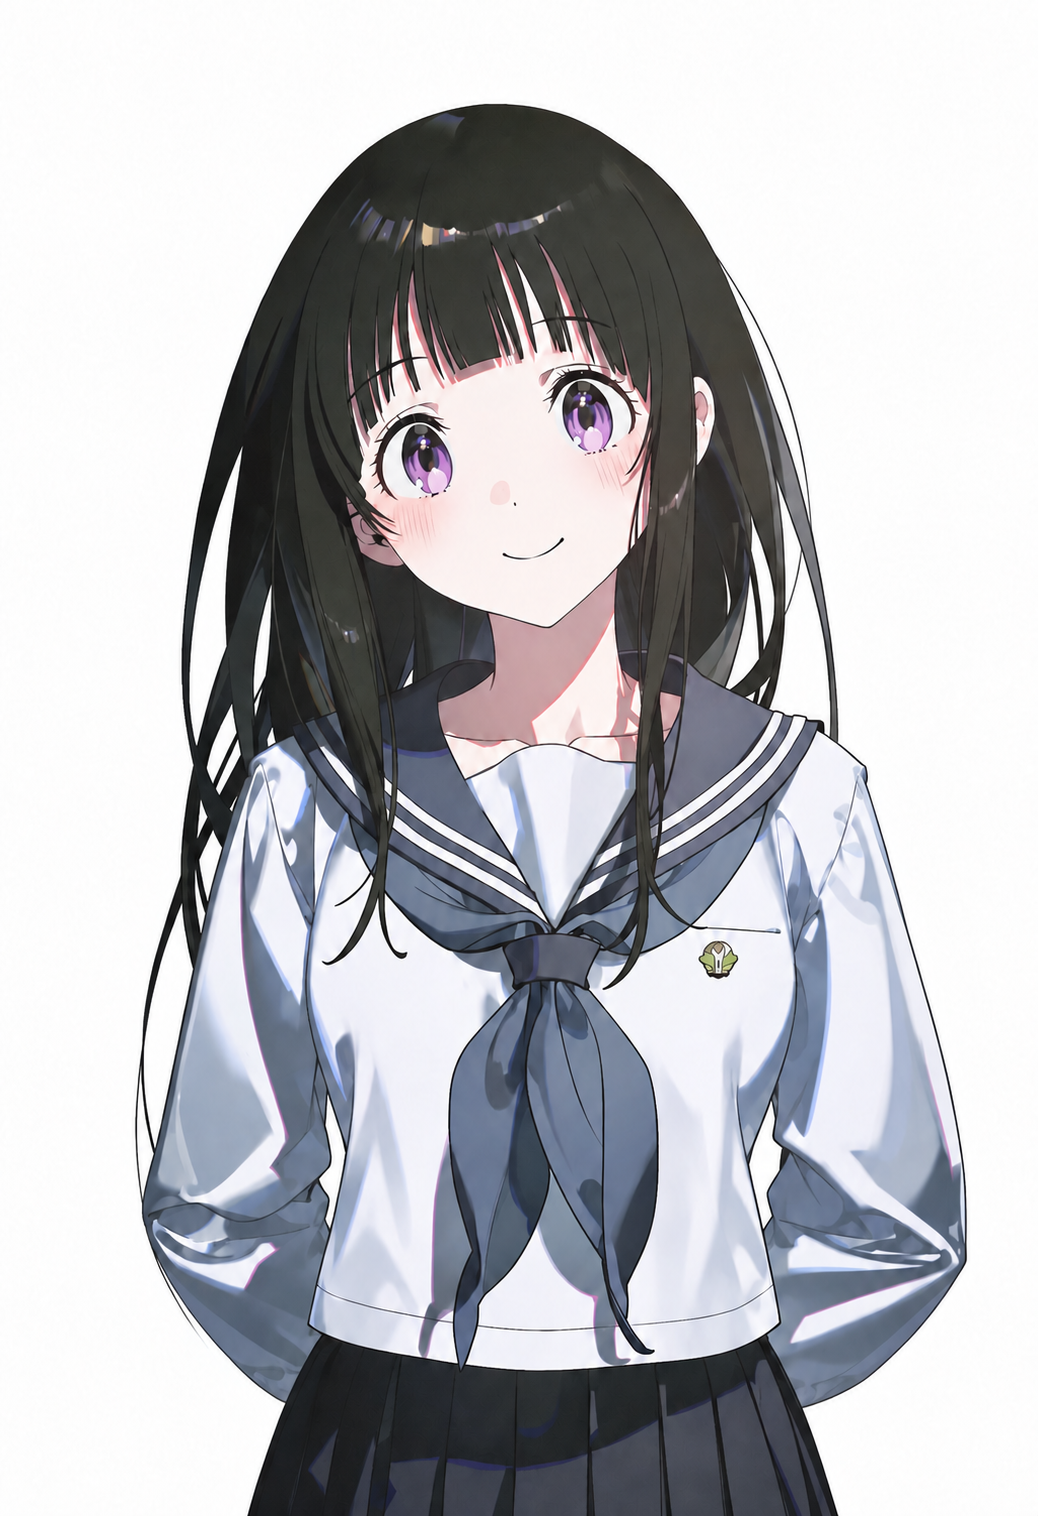
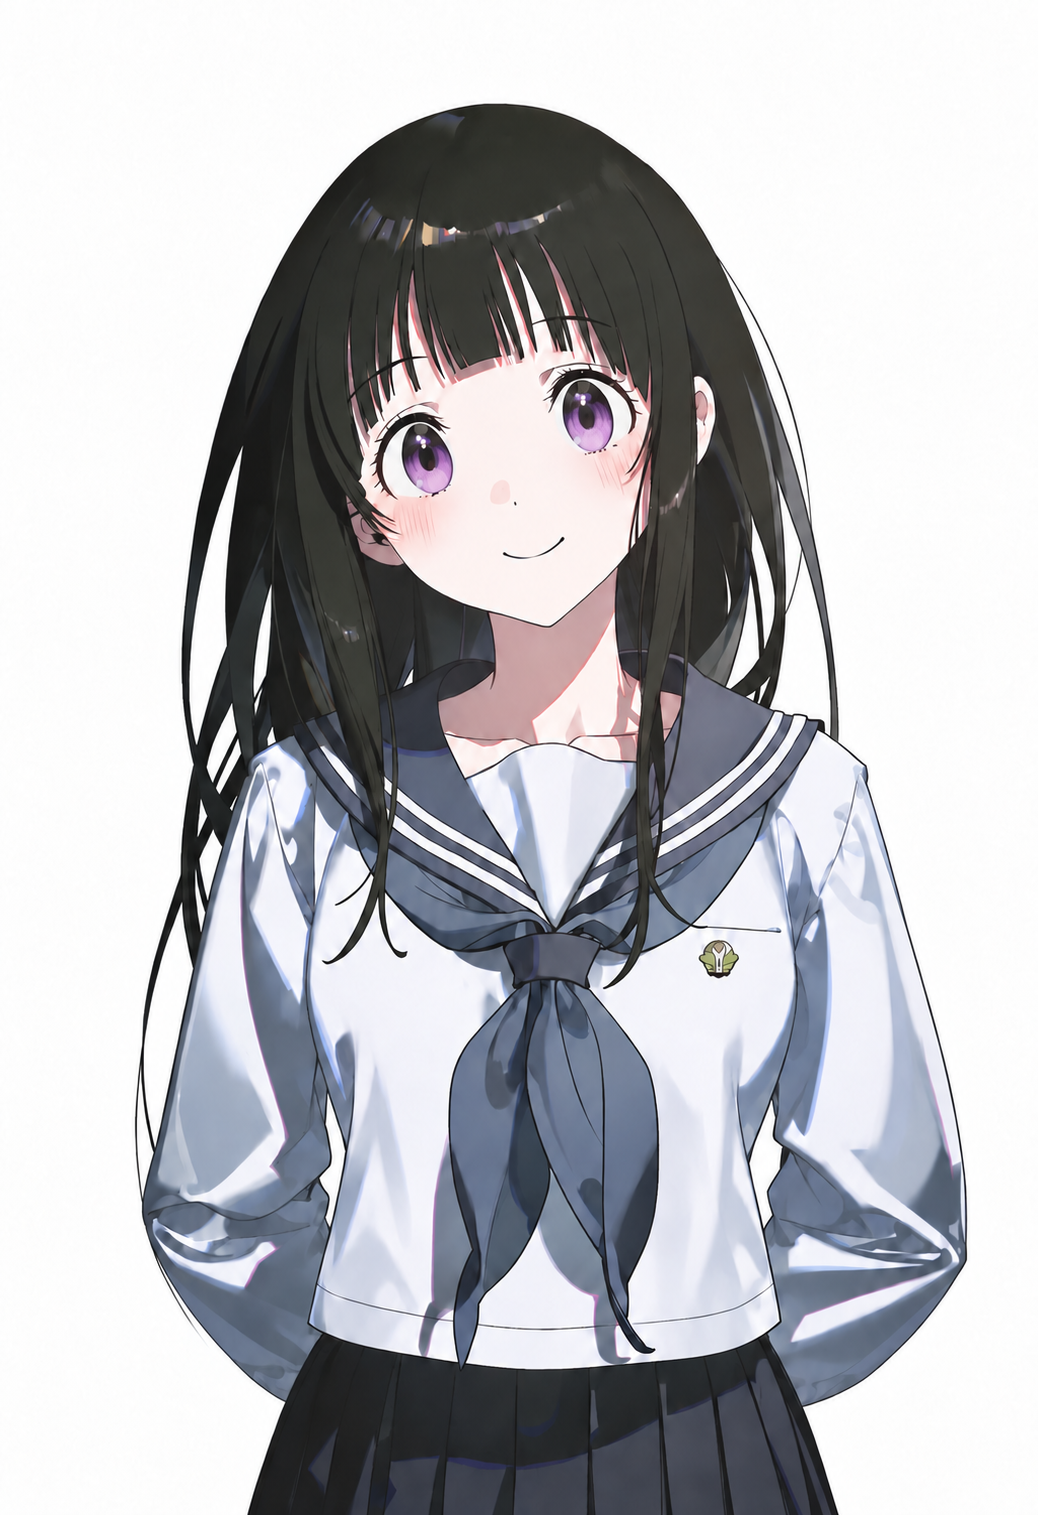
Update 千反田爱瑠 default portrait

diff --git a/images/portraits/hyouka/chitanda-eru/README.md b/images/portraits/hyouka/chitanda-eru/README.md
@@ -1,9 +1,9 @@
 # 千反田爱瑠 · 常规立绘
 
 - 当前文件：[default.png](default.png)。
-- 用户选定原图：`931-eru-waist-back-hands-v2-20260915.png`。
-- 尺寸：1038 × 1516；大小：1,663,819 字节。
[1 lines of base64/hex data omitted]
+- 用户选定原图：`931-eru-eyes-focus-v2-20260915.png`。
+- 尺寸：1038 × 1515；大小：1,593,006 字节。
[1 lines of base64/hex data omitted]
 - PNG 模型记录：未知。
 - 可读取的生成参数：seed 未知；steps 未知；scale 未知；cfg_rescale 未知；sampler 未知；noise_schedule 未知。
 - 原图字节及内嵌数据完整保留，没有裁切、缩放、抠图或重新编码。
